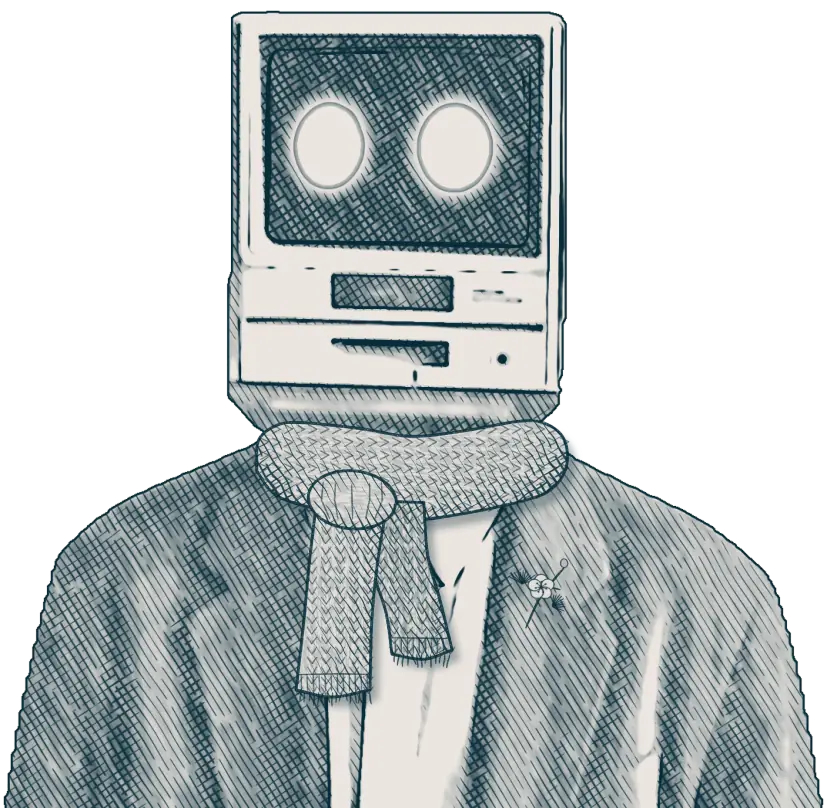
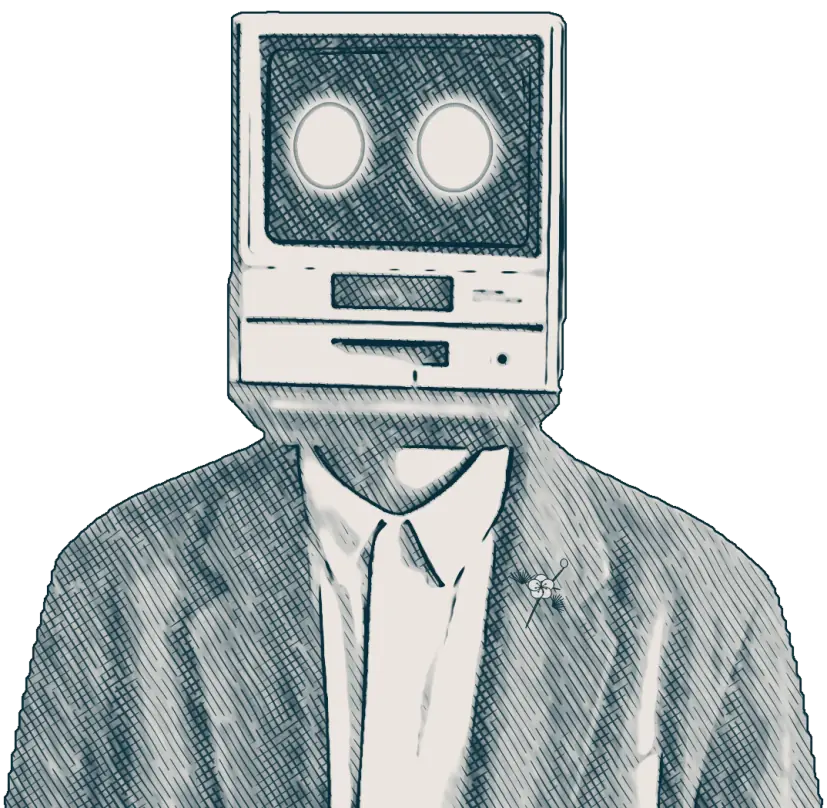
Landing: no scarf (the lapel blossom stays); the bird lands on every flock pass whatever the mouse does, stays 6.5–8 s and leaves on its own; pupils keep one size in every frame and state; long ^ ^ smiles (3 s after 'get started', 3.5 s after a surprise, at the bird, and now and then on their own)

Changed region(s): [[0.3023, 0.495, 0.6953, 0.8973]]

diff --git a/src/components/landing/ink-landing.tsx b/src/components/landing/ink-landing.tsx
@@ -9,9 +9,10 @@ import { useEffect, useRef } from "react";
 // sit on top. Styles: `land-*` in src/styles/landing.css. Media: /public/landing.
 //
 // The robot is alive in small ways, all in the plate's ink: its screen eyes blink,
-// their pupils follow you, they smile while "get started" is hovered and go wide
-// when you come close; when the mouse rests, one of the small birds lands on its
-// monitor until the mouse moves. It wears a knitted scarf and a plum blossom.
+// their pupils follow you, they go wide when you come close and smile (^ ^) for
+// "get started", after a surprise, at its visitor and now and then on their own;
+// a few seconds after the page opens (and on later passes) one of the small birds
+// lands on its monitor for a while. A plum blossom sits in its lapel.
 
 const MEDIA = "/landing";
 const FW = 1920; // the plate's own pixel grid (1920 × 1080)
@@ -56,12 +57,9 @@ const EYELESS = {
 };
 // The top of the monitor above the screen's centre, per head frame (y in the robot canvas): where a bird stands.
 const PERCH_TOP = [21, 20, 17, 16, 14, 12, 11, 10, 8, 8, 8, 8, 10, 11, 11, 11, 12, 14];
-// Friendlier clothes in the robot's ink: a knitted scarf, and a plum blossom with a pine tuft in the lapel. They are
-// baked into robot-body.webp too; the canvas redraws them only where the head patch covers the body.
-const CLOTHES = [
-  { src: `${MEDIA}/robot-scarf.webp`, x: 228, y: 388 },
-  { src: `${MEDIA}/robot-blossom.webp`, x: 500, y: 548 },
-];
+// A plum blossom with a pine tuft in the lapel, in the robot's ink. It is baked into robot-body.webp too; the canvas
+// redraws it only where the head patch covers the body.
+const CLOTHES = [{ src: `${MEDIA}/robot-blossom.webp`, x: 500, y: 548 }];
 // A small bird perched: sitting, head cocked, wings raised (landing / taking off). Cells at 3× plate scale, feet at
 // (fx, fy); drawn a touch larger than the flock (`size`) so it reads on the monitor.
 const PERCHED = { src: `${MEDIA}/bird-perch.webp`, cw: 102, ch: 87, fx: 48, fy: 78, scale: 3, size: 1.25 };
@@ -71,6 +69,7 @@ const EYE_PAPER = "#ede7e0";
 const EYE_GLOW = "rgba(242, 237, 229, 0.95)";
 const EYE_RING = "rgba(84, 112, 118, 0.5)";
 const PUPIL = "#0c2f38";
+const PUPIL_R = 12.5; // one pupil size in every head frame and every state (robot canvas px): pupils move, never scale
 type EyeMode = "open" | "squint" | "closed" | "happy" | "wide";
 
 type Flyer = { src: string; frames: number; cw: number; ch: number; ax: number; ay: number; lag: number; dy: number; phase: number; scale?: number; img?: HTMLImageElement };
@@ -194,10 +193,13 @@ export function InkLanding() {
       }
       rx.restore();
     };
-    const drawPupil = ([cx, cy, w, h]: Eye, size: number) => {
-      const r = Math.min(w, h) * 0.2 * size;
-      const x = cx + look.x * (w / 2 - r - 5);
-      const y = cy + look.y * (h / 2 - r - 6);
+    const drawPupil = ([cx, cy, w, h]: Eye, wide: boolean) => {
+      // the same size everywhere; only how far it can travel follows the eye (wide eyes are drawn 1.18 × 1.14)
+      const r = PUPIL_R;
+      const ew = wide ? w * 1.18 : w;
+      const eh = wide ? h * 1.14 : h;
+      const x = cx + look.x * Math.max(0, ew / 2 - r - 5);
+      const y = cy + look.y * Math.max(0, eh / 2 - r - 6);
       rx.save();
       rx.fillStyle = PUPIL;
       rx.shadowColor = "rgba(12, 47, 56, 0.45)";
@@ -232,8 +234,8 @@ export function InkLanding() {
         rx.drawImage(eyeless, c * EYELESS.cw, r * EYELESS.ch, ew, eh, ex, ey, ew, eh);
         for (const e of eyes) drawEye(e, m);
       }
-      if (pupils && (m === "open" || m === "wide")) for (const e of eyes) drawPupil(e, m === "wide" ? 0.72 : 1);
-      // the clothes over the head patch (the body image already has them below it)
+      if (pupils && (m === "open" || m === "wide")) for (const e of eyes) drawPupil(e, m === "wide");
+      // the blossom over the head patch (the body image already has it below)
       rx.save();
       rx.beginPath();
       rx.rect(px, py, pw, ph);
@@ -264,24 +266,45 @@ export function InkLanding() {
       return Math.round(t < 0 ? R.ref * (1 + t) : R.ref + t * (R.frames - 1 - R.ref));
     };
 
-    /* ---------- the eyes: a blink every few seconds, a smile for "get started", wide when you come close ---------- */
+    /* ---------- the eyes: a blink every few seconds, wide when you come close, and long ^ ^ smiles:
+       while "get started" is hovered or focused and 3 s after, 3.5 s after a surprise, at the bird once it has
+       landed, and now and then on their own (3–5 s). A blink during a smile is a quick squeeze. ---------- */
     let surpriseAt = -1e9;
+    let smileFrom = -1e9; // a smile can outlast its cause
+    let smileUntil = -1e9;
+    const smile = (from: number, until: number) => {
+      // extend a smile that is on (or about to be) rather than cut it short
+      if (from <= smileUntil && smileFrom <= from) smileUntil = Math.max(smileUntil, until);
+      else {
+        smileFrom = from;
+        smileUntil = until;
+      }
+    };
+    let nextIdleSmile = performance.now() + 9000 + Math.random() * 6000;
     let nextBlink = performance.now() + 2500 + Math.random() * 2500;
     let blinkAt = -1e9;
     let twice = false;
     const blinkPhase = (t: number): EyeMode | null => (t < 0 ? null : t < 40 ? "squint" : t < 150 ? "closed" : t < 190 ? "squint" : null);
-    const eyeMode = (now: number): EyeMode => {
-      if (hovered || focused) return "happy";
-      const ts = now - surpriseAt;
-      if (ts < 900) return "wide";
-      if (ts < 1600) return "happy";
+    const eyeMode = (now: number, birdHere: boolean): EyeMode => {
+      if (now - surpriseAt < 900) return "wide";
       if (now >= nextBlink) {
         blinkAt = now;
         twice = Math.random() < 0.25;
         nextBlink = now + 3000 + Math.random() * 3000;
       }
       const tb = now - blinkAt;
-      return blinkPhase(tb) ?? (twice ? blinkPhase(tb - 300) : null) ?? "open";
+      const blink = blinkPhase(tb) ?? (twice ? blinkPhase(tb - 300) : null);
+      let happy = hovered || focused || (now >= smileFrom && now < smileUntil);
+      if (now >= nextIdleSmile) {
+        // a smile of its own now and then, when nothing else is going on
+        if (!happy && !birdHere) {
+          smile(now, now + 3000 + Math.random() * 2000);
+          happy = true;
+        }
+        nextIdleSmile = now + 12000 + Math.random() * 8000;
+      }
+      if (happy) return blink === "closed" ? "closed" : "happy";
+      return blink ?? "open";
     };
 
     const onPointer = (e: PointerEvent) => {
@@ -295,13 +318,22 @@ export function InkLanding() {
       const f = faceAt(cur);
       const fx = b.left + (f.x / R.w) * b.width;
       const fy = b.top + (f.y / R.h) * b.height;
-      if (!hovered && !focused && now - surpriseAt > 4000 && Math.hypot(e.clientX - fx, e.clientY - fy) < Math.max(90, b.height * 0.3)) surpriseAt = now;
+      if (!hovered && !focused && now - surpriseAt > 4000 && Math.hypot(e.clientX - fx, e.clientY - fy) < Math.max(90, b.height * 0.3)) {
+        surpriseAt = now;
+        smile(now + 900, now + 900 + 3500); // then a long smile
+      }
     };
     if (finePointer && !reduce) addEventListener("pointermove", onPointer, { passive: true });
     const onEnter = () => (hovered = true);
-    const onLeave = () => (hovered = false);
+    const onLeave = () => {
+      hovered = false;
+      smile(performance.now(), performance.now() + 3000); // keep smiling a while after the pointer leaves
+    };
     const onFocus = () => (focused = true);
-    const onBlur = () => (focused = false);
+    const onBlur = () => {
+      focused = false;
+      smile(performance.now(), performance.now() + 3000);
+    };
     startLink.addEventListener("pointerenter", onEnter);
     startLink.addEventListener("pointerleave", onLeave);
     startLink.addEventListener("focus", onFocus);
@@ -336,7 +368,7 @@ export function InkLanding() {
       return { x, y, f: Math.floor(t * 24 + c.phase) % c.frames };
     };
     // the lander's state: in the flock, flying in, perched, flying off, or gone until the flock's next pass
-    const lander = { phase: "flock" as "flock" | "in" | "perch" | "out" | "gone", t0: 0, x: 0, y: 0, fx: 0, fy: 0, act: 1, actAt: 0, landed: -1e9 };
+    const lander = { phase: "flock" as "flock" | "in" | "perch" | "out" | "gone", t0: 0, x: 0, y: 0, fx: 0, fy: 0, act: 1, actAt: 0, landed: -1e9, stay: 7000 };
     const drawBirds = (t: number) => {
       bx.clearRect(0, 0, bc.width, bc.height);
       for (const c of flyers) {
@@ -365,10 +397,10 @@ export function InkLanding() {
       const L = lander;
       if (L.phase === "flock") {
         if (!ready) return;
-        // a rested mouse (or now and then on a phone), the lander passing on the right: it peels off and glides down
+        // every pass of the flock (the first a few seconds after the page opens), whatever the mouse is doing:
+        // the lander peels off and glides down onto the monitor
         const p = birdAt(landerFlyer, t);
-        const rested = finePointer ? now - lastPointer > 2500 : now - L.landed > 25000;
-        if (rested && !hovered && !focused && now - L.landed > 9000 && p.x > 1150 && p.x < 1700) {
+        if (now - L.landed > 9000 && p.x > 700 && p.x < 1750) {
           L.phase = "in";
           L.t0 = now;
           L.fx = p.x;
@@ -387,7 +419,7 @@ export function InkLanding() {
       if (L.phase === "in") {
         const u = Math.min(1, (now - L.t0) / 1800);
         const e = 1 - Math.pow(1 - u, 3);
-        L.x = bez(L.fx, P.x + 260, P.x, e);
+        L.x = bez(L.fx, P.x + (L.fx >= P.x ? 260 : -260), P.x, e); // it comes in from its own side
         L.y = bez(L.fy, P.y - 170, P.y, e);
         if (u < 0.86) drawFlight(L.x, L.y - 8, Math.floor(t * 24 * (1 - 0.45 * u)) % SMALL.frames);
         else drawPerched(L.x, L.y, 2);
@@ -395,8 +427,10 @@ export function InkLanding() {
           L.phase = "perch";
           L.t0 = now;
           L.landed = now;
+          L.stay = 6500 + Math.random() * 1500;
           L.act = Math.random() < 0.6 ? 1 : 2;
           L.actAt = now + 1200 + Math.random() * 800;
+          smile(now + 1000, now + 3800); // it looks up at its visitor, smiles, then watches it again
         }
         return;
       }
@@ -418,8 +452,8 @@ export function InkLanding() {
         L.x = P.x;
         L.y = P.y;
         drawPerched(P.x, P.y + dy, f);
-        // the mouse moves (or, on a phone, a few seconds pass): off it goes
-        if (finePointer ? lastPointer > L.t0 + 50 : now - L.t0 > 6000) {
+        // it stays a while (6.5–8 s), then flies off on its own; the mouse doesn't scare it
+        if (now - L.t0 > L.stay) {
           L.phase = "out";
           L.t0 = now;
           L.fx = P.x;
@@ -503,7 +537,7 @@ export function InkLanding() {
         const ease = Math.min(1, dt * 9);
         look.x += (want.x - look.x) * ease;
         look.y += (want.y - look.y) * ease;
-        mode = eyeMode(now);
+        mode = eyeMode(now, lander.phase === "in" || lander.phase === "perch");
         paintHead();
       }
       raf = requestAnimationFrame(frame);

diff --git a/public/landing/CREDITS.md b/public/landing/CREDITS.md
@@ -4,9 +4,9 @@
 |---|---|---|---|---|
 | `land.mp4`, `land.webp` | Background clip from the "Heritage Grove" footer prompt (motionsites.ai) | AI-generated (the `hf_` file name suggests Higgsfield) | **Unconfirmed** | Birds removed (median plate), 1 s crossfade into a seamless 9 s loop; far peaks (the clip's own ranges, enlarged) and two code-drawn shops baked in; re-encoded at 2 Mbps; the poster is the loop's first frame |
 | `crane-a.webp`, `crane-b.webp`, `bird-s.webp` | Same clip | Same | **Unconfirmed** | One wing-beat cycle per bird, cut out as sprite sheets |
-| `robot-body.webp`, `robot-heads.webp` | Hero clip from the "Mainframe" prompt (motionsites.ai) | AI-generated; redrawn in ink by our own scripts | **Unconfirmed** | Frames masked with Apple Vision, stylized into teal ink, the monitor's brand label blanked, the bust carried to the bottom edge; the body now wears the scarf and blossom below |
+| `robot-body.webp`, `robot-heads.webp` | Hero clip from the "Mainframe" prompt (motionsites.ai) | AI-generated; redrawn in ink by our own scripts | **Unconfirmed** | Frames masked with Apple Vision, stylized into teal ink, the monitor's brand label blanked, the bust carried to the bottom edge; the body now wears the lapel blossom below |
 | `robot-eyes.webp` | The same robot frames | Our own scripts | **Unconfirmed** (derived from the clip) | The screen of each head frame with its eyes painted out, so the eyes can blink, smile and widen |
-| `robot-scarf.webp`, `robot-blossom.webp`, `bird-perch.webp` | Drawn by our own code | This project | Ours | none |
+| `robot-blossom.webp`, `bird-perch.webp` | Drawn by our own code | This project | Ours | none |
 | The little bakery and market stall in the scene | Painted by our own code | This project | Ours | none |
 | Marcellus | Google Fonts | Brian J. Bonislawsky (Astigmatic) | SIL OFL 1.1 | none |
 
